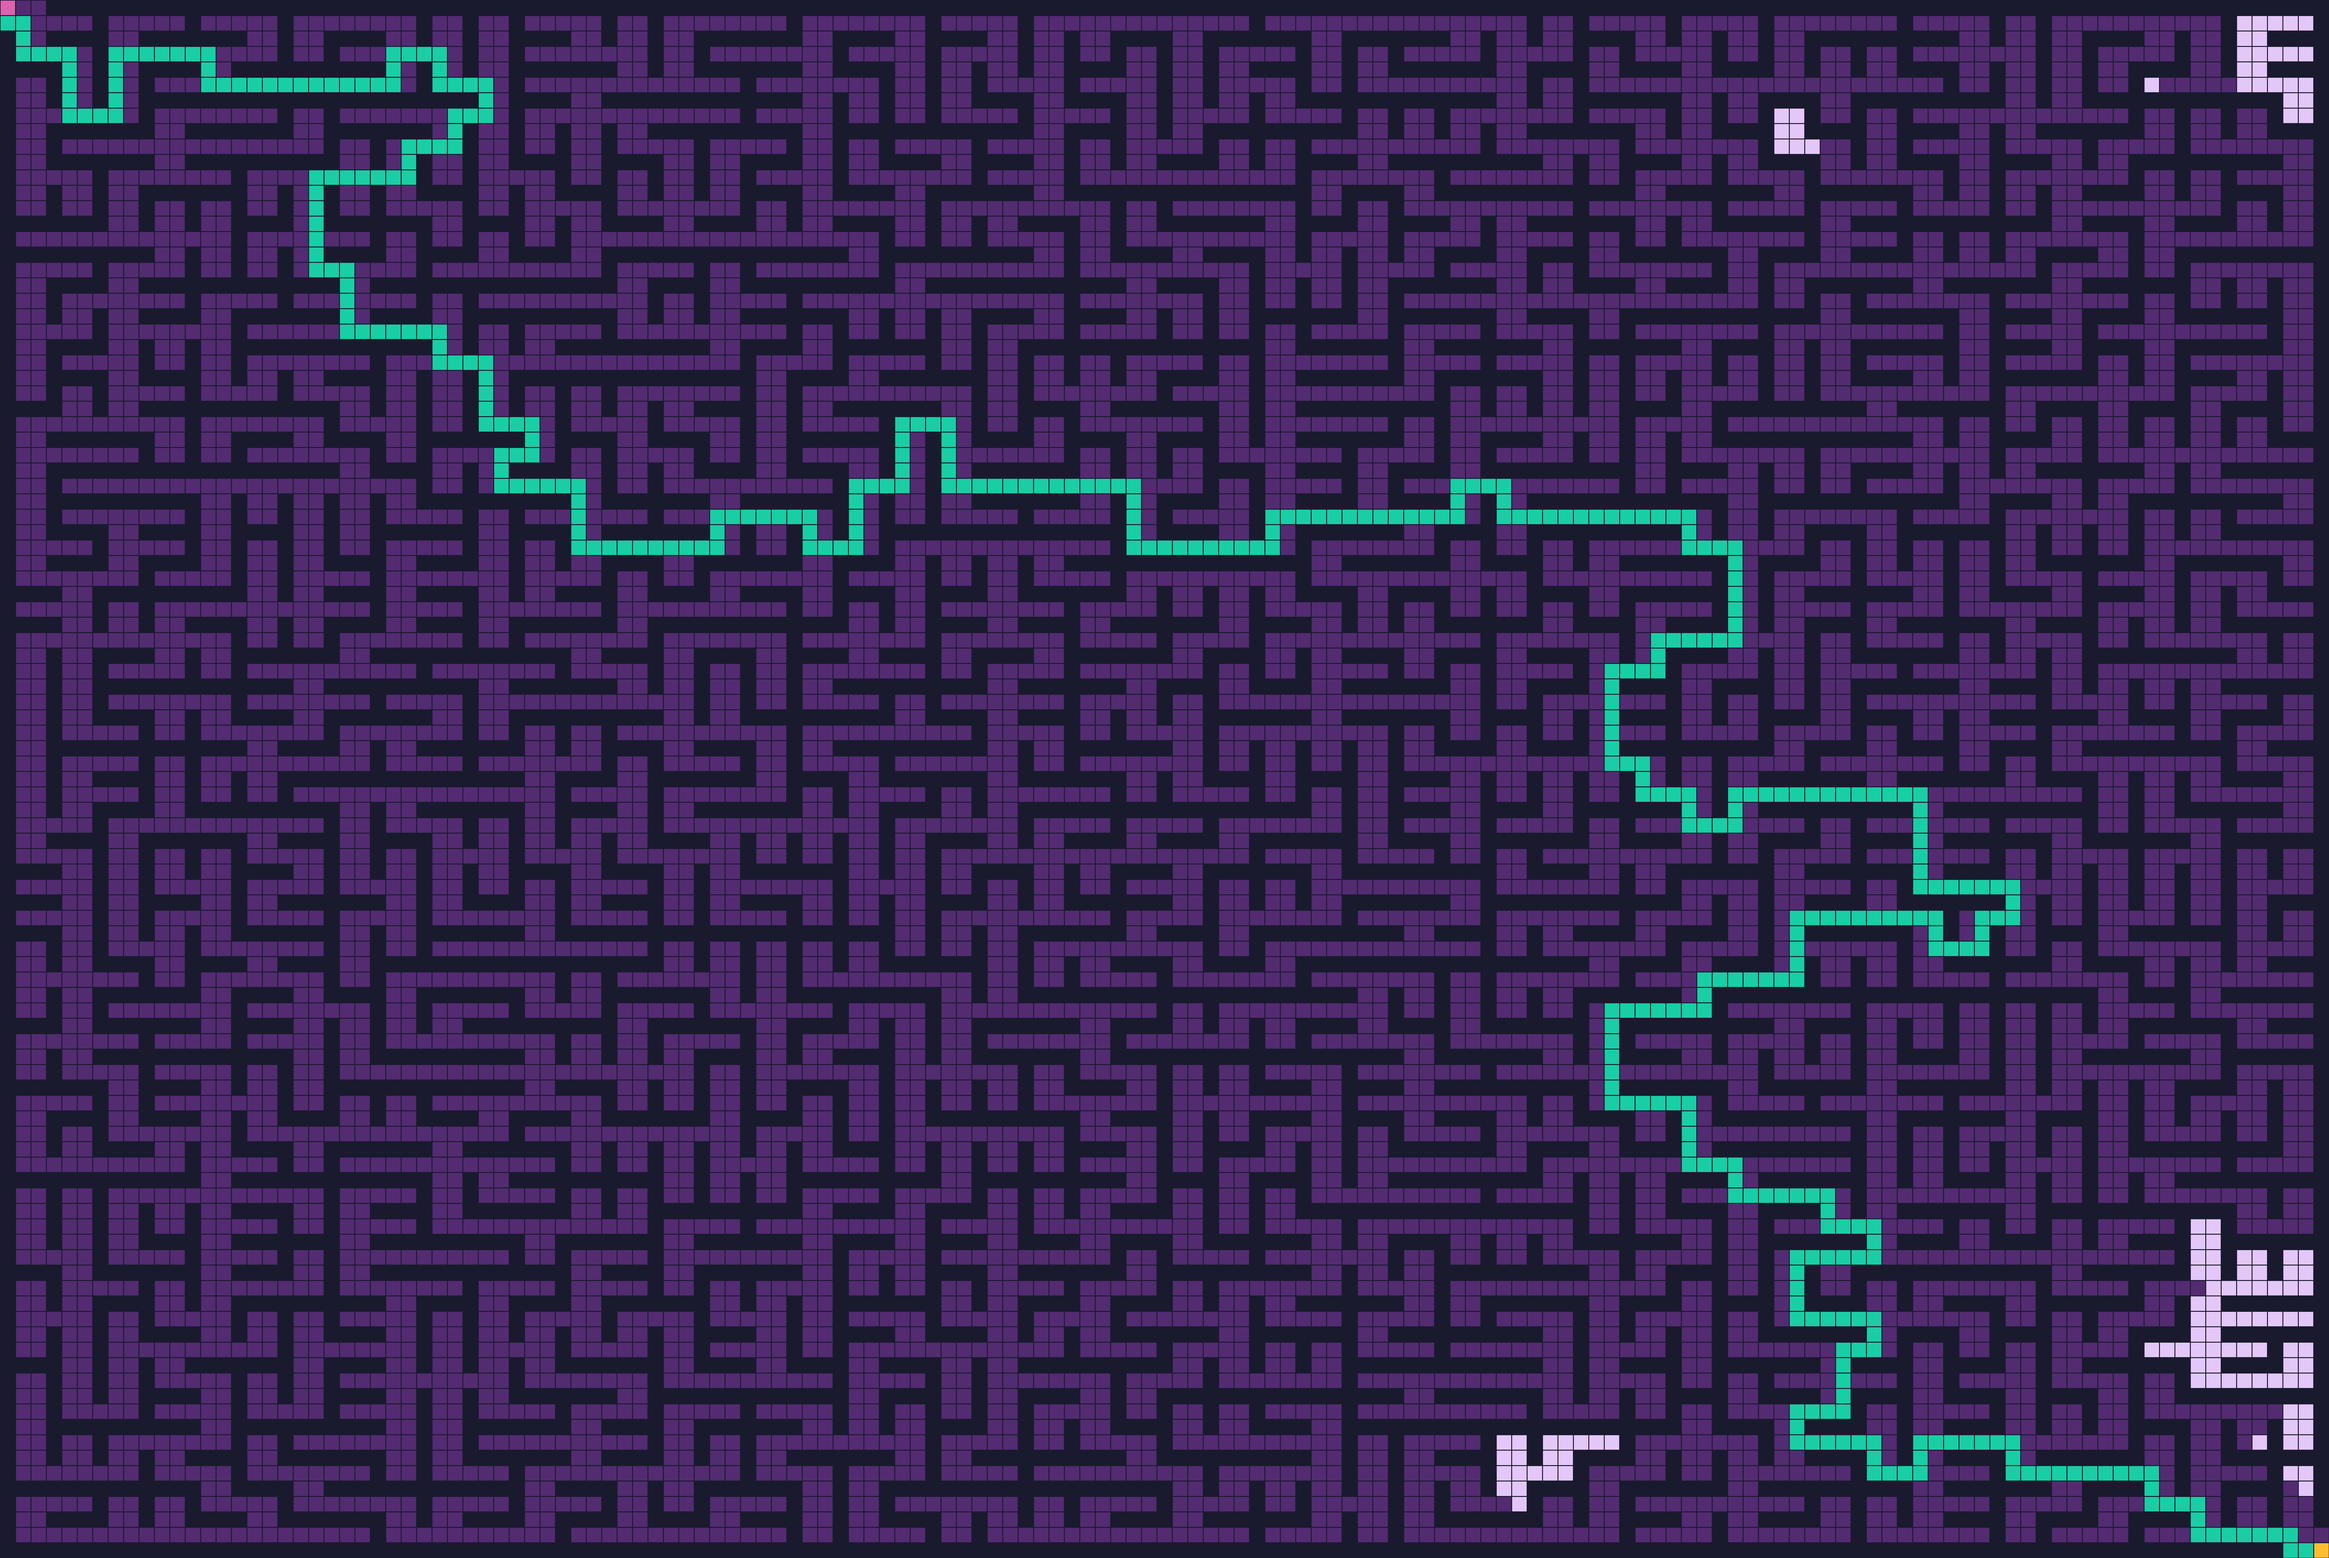
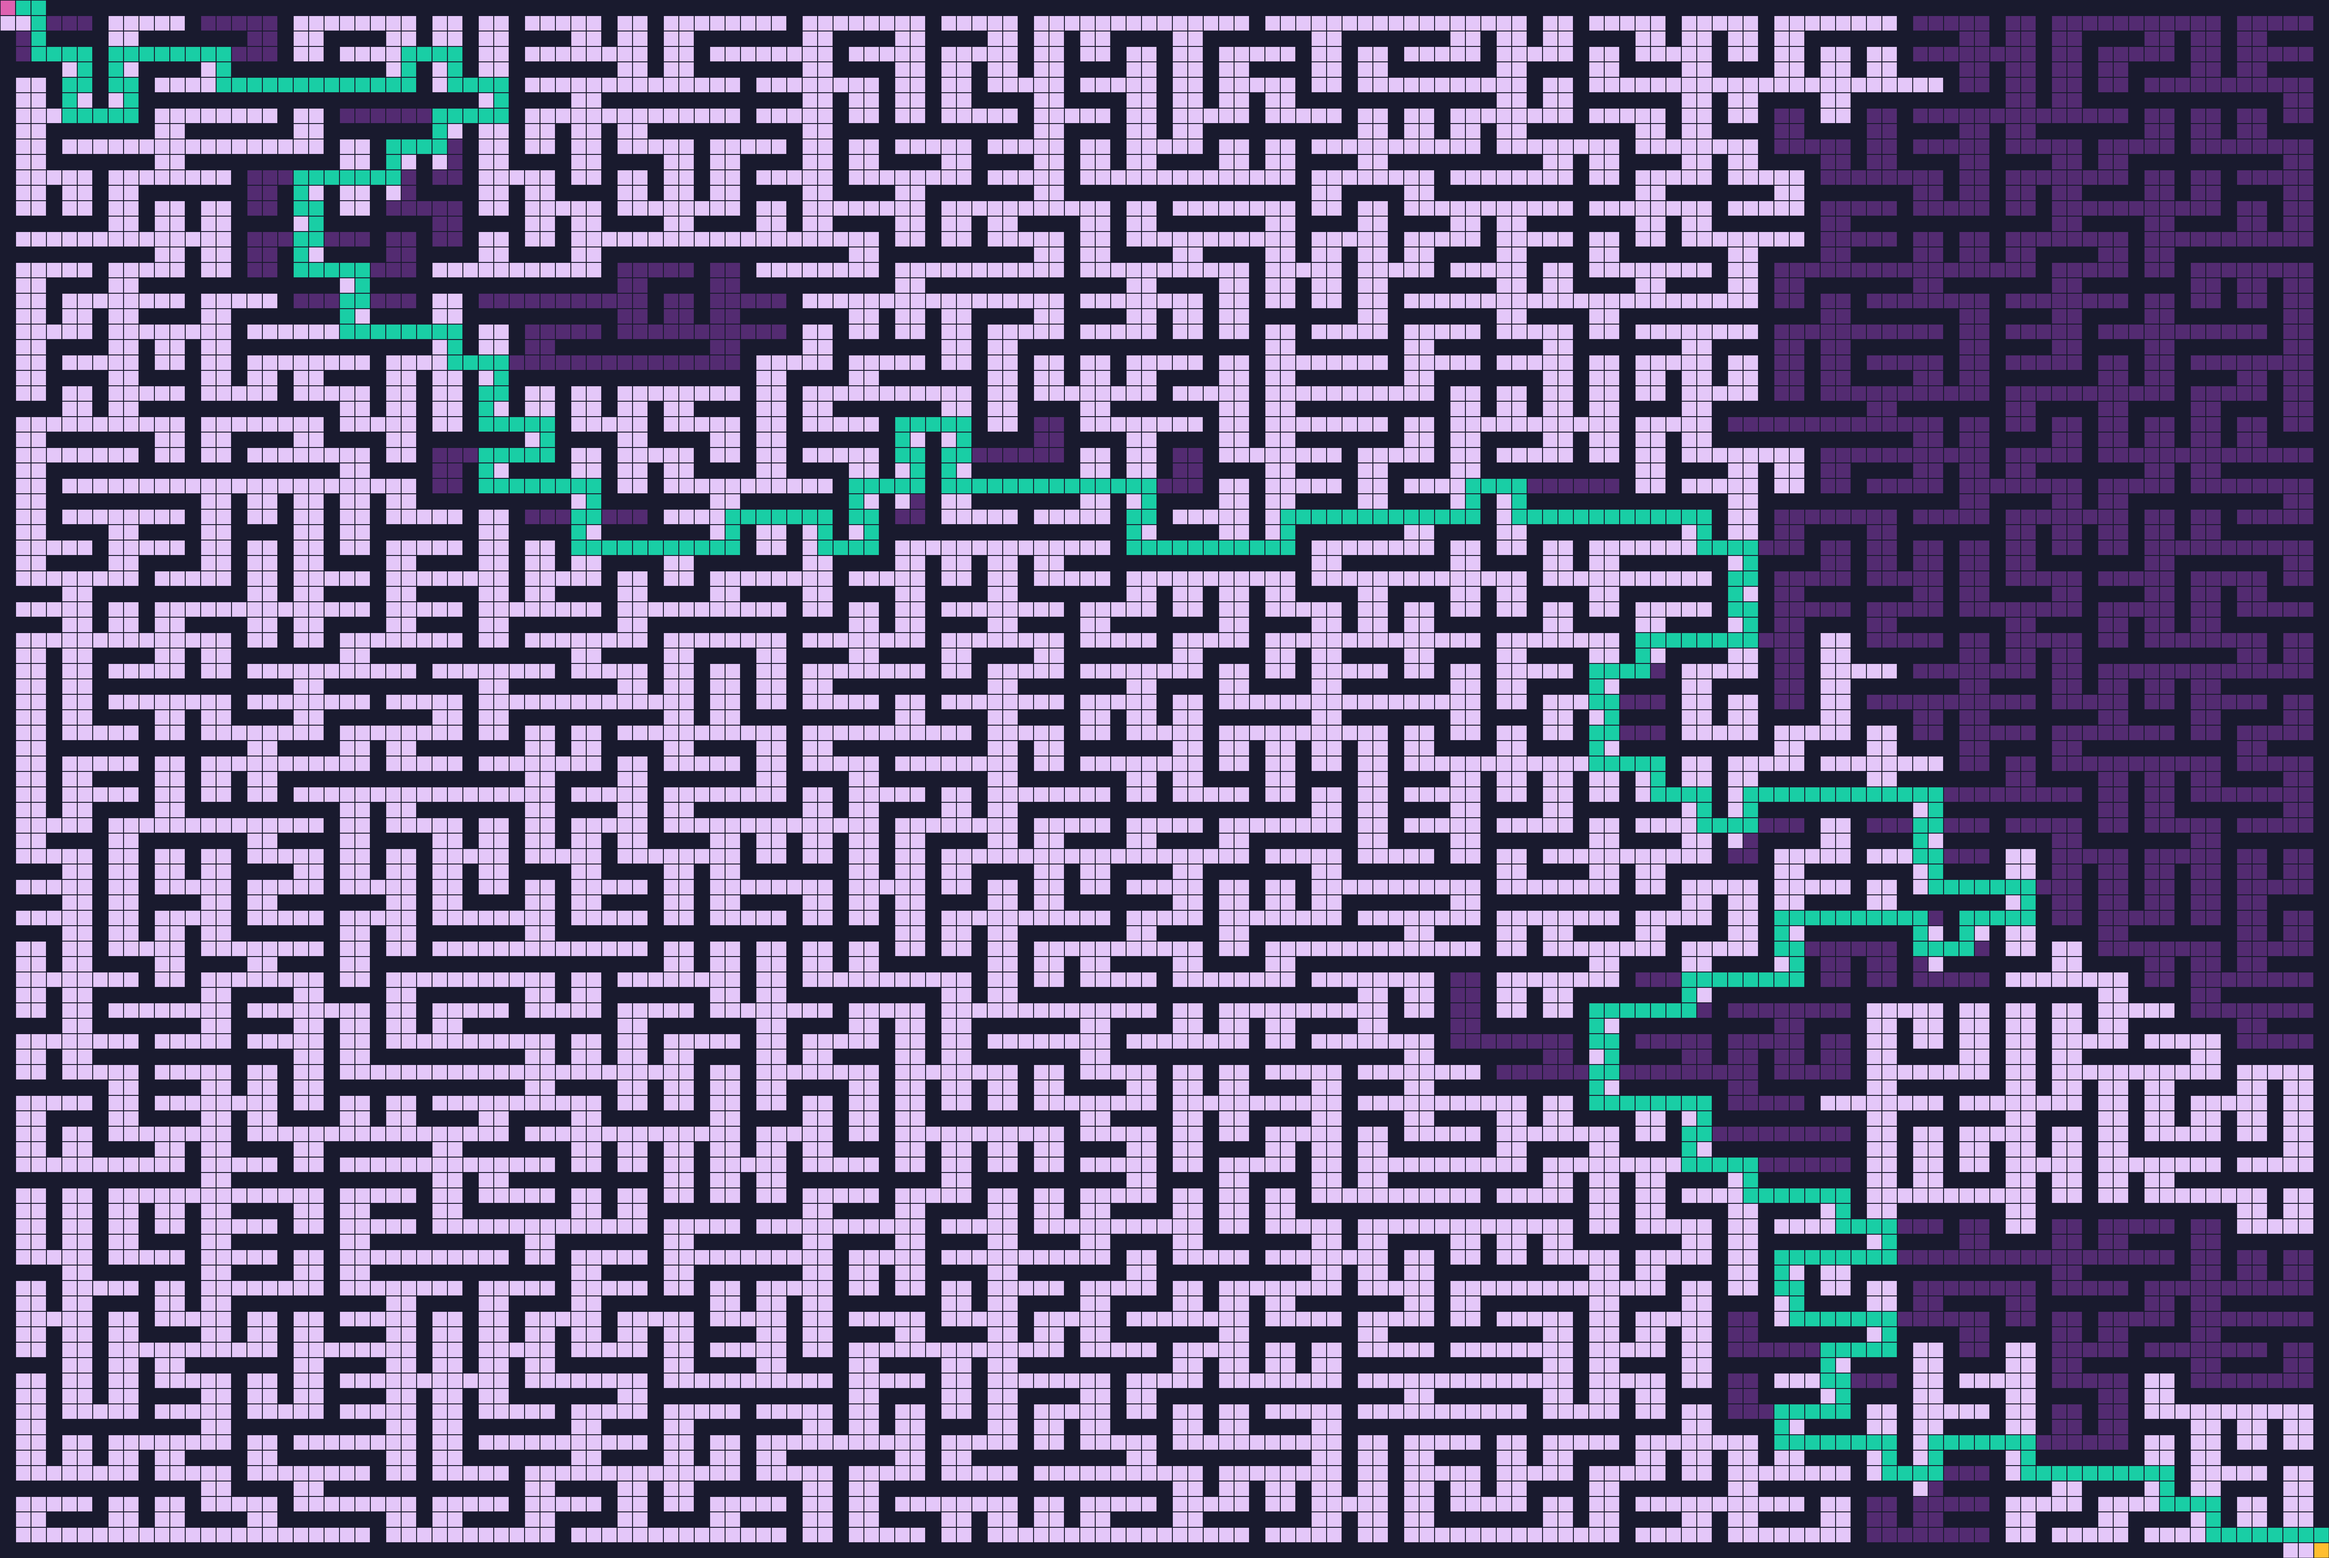
Mejorando las salidas de imgenes

diff --git a/Laberinto/laberinto.py b/Laberinto/laberinto.py
@@ -124,7 +124,7 @@ class Laberinto():
 
         #Inicializamos la Frontera a la posicion de inicio
         start = Node(state=self.start, parent=None, action=None)
-        frontier = QueueFrintier()
+        frontier = StackFrontier()
         frontier.add(start)
 
         self.typeSearch = "Queue - Cola" if isinstance(frontier, QueueFrintier) else "Stack - Pila"

diff --git a/Laberinto/README.md b/Laberinto/README.md
@@ -1,0 +1,12 @@
+# Algorithms BFS and DFS
+
+- Node
+- Frontiner
+- Parent
+- Stack / Queue
+- Actions
+- Set Explored
+
+### Result ####
+
+![Resolucion de Laberinto 5](lab5.png)

diff --git a/README.md b/README.md
@@ -1,1 +1,6 @@
 #Harvard CS50 IA - Artificial intelligence Formation
+
+## Laberinto ##
+
+![Resolucion de Laberinto](/Laberinto/lab6.png)
+
